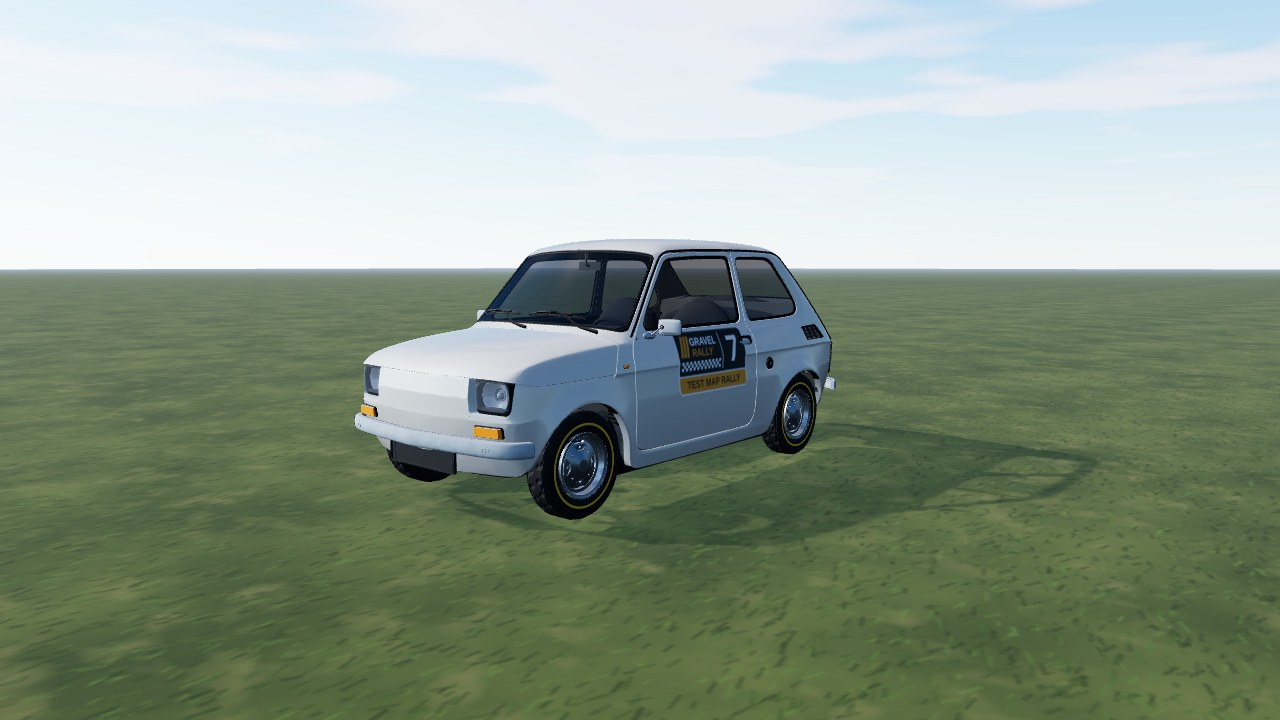
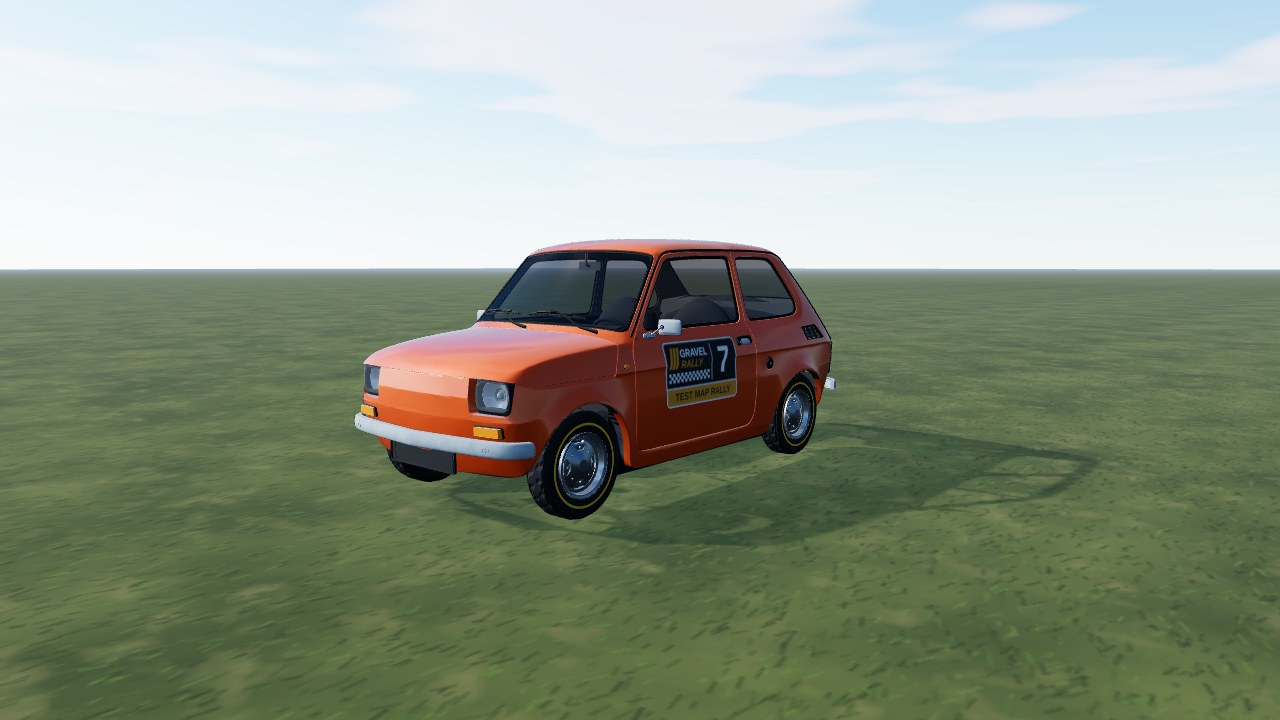
Rally: Fiat 126p orange paint, door plate lower and forward

diff --git a/src/games/rally/cars/pezetka/pezetka.ts b/src/games/rally/cars/pezetka/pezetka.ts
@@ -201,8 +201,8 @@ export const pezetka: CarDef = {
     ]),
   },
   model: {
-    // The model's own paint is a pale grey; ours is a Polish-era white.
-    paint: '#e9e6dd',
+    // The model's own paint is a pale grey; ours is the period 126p orange.
+    paint: '#ff6010',
     // The model's own steel rim (pezetka_wheel.glb), de-cambered and centred on the hub.
     rim: { color: '#9aa0a6', spokes: 4, style: 'steel', caliper: false },
     wheelModel: 'pezetka_wheel.glb',
@@ -221,7 +221,7 @@ export const pezetka: CarDef = {
     glass: { color: 0x141c24, opacity: 0.6 },
     // Fallback body if the GLB can't load (and the street car of the city maps): profile.ts.
     profile,
-    doorBadge: { z: 0.17, y: 0.66 },
+    doorBadge: { z: 0.27, y: 0.61 },
     gltf: {
       file: 'pezetka.glb',
       credit:

diff --git a/src/games/rally/cars/pezetka/README.md b/src/games/rally/cars/pezetka/README.md
@@ -11,7 +11,7 @@ rear axle, 4-speed, **no ABS and no traction control**. Test car (hidden in the 
 - **Shrunk:** the source is 27 MB (35 textures); the game uses flat paint, so only the bumper and head lamp sheets ship (512 px,
   256 colours). Body 100k triangles, kept at the model's own detail; `normalSmooth` in `model.source.json` irons out the
   ripples that the model's hand-smoothed normals hide.
-- **Paint (ours):** one flat white, other seeds recolour it.
+- **Paint (ours):** one flat period orange, other seeds recolour it.
 - **Interior (second model):** the body model's cockpit is only a flat lid at sill height with the seat backs poking
   through, so the dash, steering column and wheel, gear lever, seats, seat rails, rear bench and floor come from
   "fiat 126p" by subishi, with their own textures. Same wheelbase; it is narrowed 5% and lowered to sit under our
